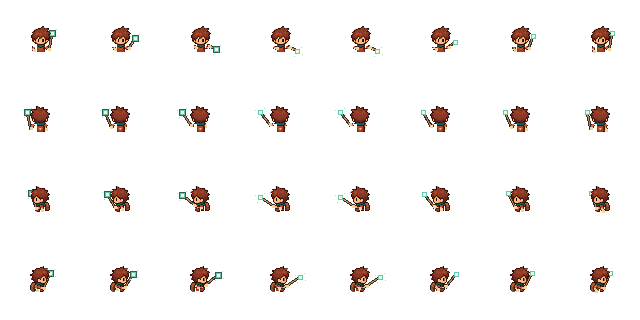
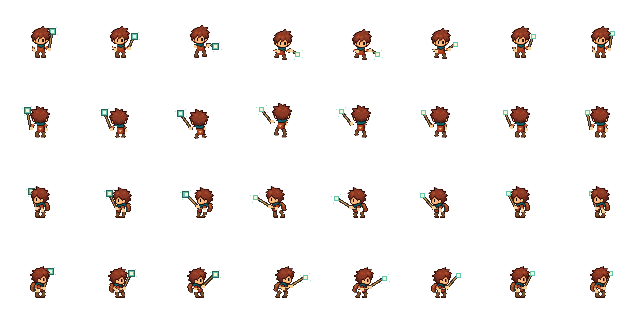
feat: animate Orbe Arcano full-body channel and finalize five skill actions

diff --git a/assets/art/skills1_v1/README.md b/assets/art/skills1_v1/README.md
@@ -1,7 +1,7 @@
 # Skills 1 V1 - review only
 
-Five RGBA atlases: espada, machado, lanca, arco and cajado.png.
-Each 640x320; eight 80x80 cells per direction; foot anchor (40,52).
+Five pairs of RGBA atlases: espada, machado, lanca, arco and cajado.
+Full/upper variants; 8 frames x 4 directions. See V2 dimensions/anchors below.
 Rows front/back/left/right. Frames 0-2 prepare, 3 release, 4 impact, 5-7 recover.
 Approved torso/head/scarf/backpack and original independent walking legs reused.
 New poses reuse the source-grid arm rasterizer with <=12px shoulder-hand spans.
@@ -16,3 +16,12 @@ no shaders, Light2D, particles or new damage/collision. Original physics reused.
 Preparation in the isolated review is visual intent. PlayerActor.use_skill(0)
 executes unchanged at release; original cooldown/damage/projectile rules apply.
 Repeat never bypasses cooldown. Preview stays separate pending visual approval.
+
+
+V2 full-body acting: category.png contains posed hips, knees and planted boots.
+category_upper.png combines the same acted torso with original walking legs.
+Sword/axe/bow/staff keep 80px cells; spear uses 112px cells with anchor (56,64)
+for transparent margin only. Source pixel scale remains 2x for every category.
+Skill1BodyPose supplies head/torso/foot acting and matching release muzzles.
+Profiles are independent: sword step/twist, axe lift/crouch, spear lunge,
+bow brace/recoil, staff channel/forward release. Approved basic assets unchanged.

diff --git a/docs/decisions/SKILLS1_V1.md b/docs/decisions/SKILLS1_V1.md
@@ -79,3 +79,5 @@ Etapa B V2: Racha-Chao levanta tronco/arma e flexiona quadril/joelhos no impacto
 Etapa C V2: Impulso Perfurante com recuo, passada e inclinacao do tronco. Margem transparente 112px para nao cortar a ponta; escala/ancora fisica preservadas. 752 checks sem falhas.
 
 Etapa D V2: Flecha Certeira com apoio, puxada maior e recuo corporal; origem visual acompanha arco na soltura, sem mudar fisica. 761 checks sem falhas. Movimento avaliado pela amplitude da acao completa, incluindo recuo/recuperacao.
+
+Etapa E V2: Orbe Arcano com canalizacao, inclinacao e avancar/recuar do apoio; 770 checks das Skills e 159 de isolamento sem falhas. Basicos, contratos gerais e journal passaram. 20 ciclos completos capturados nas quatro direcoes, alem das 68 poses/impactos. Preview abre em 1x; 0.5x continua opcional. Sem Engine.time_scale ou alteracao de combate.
